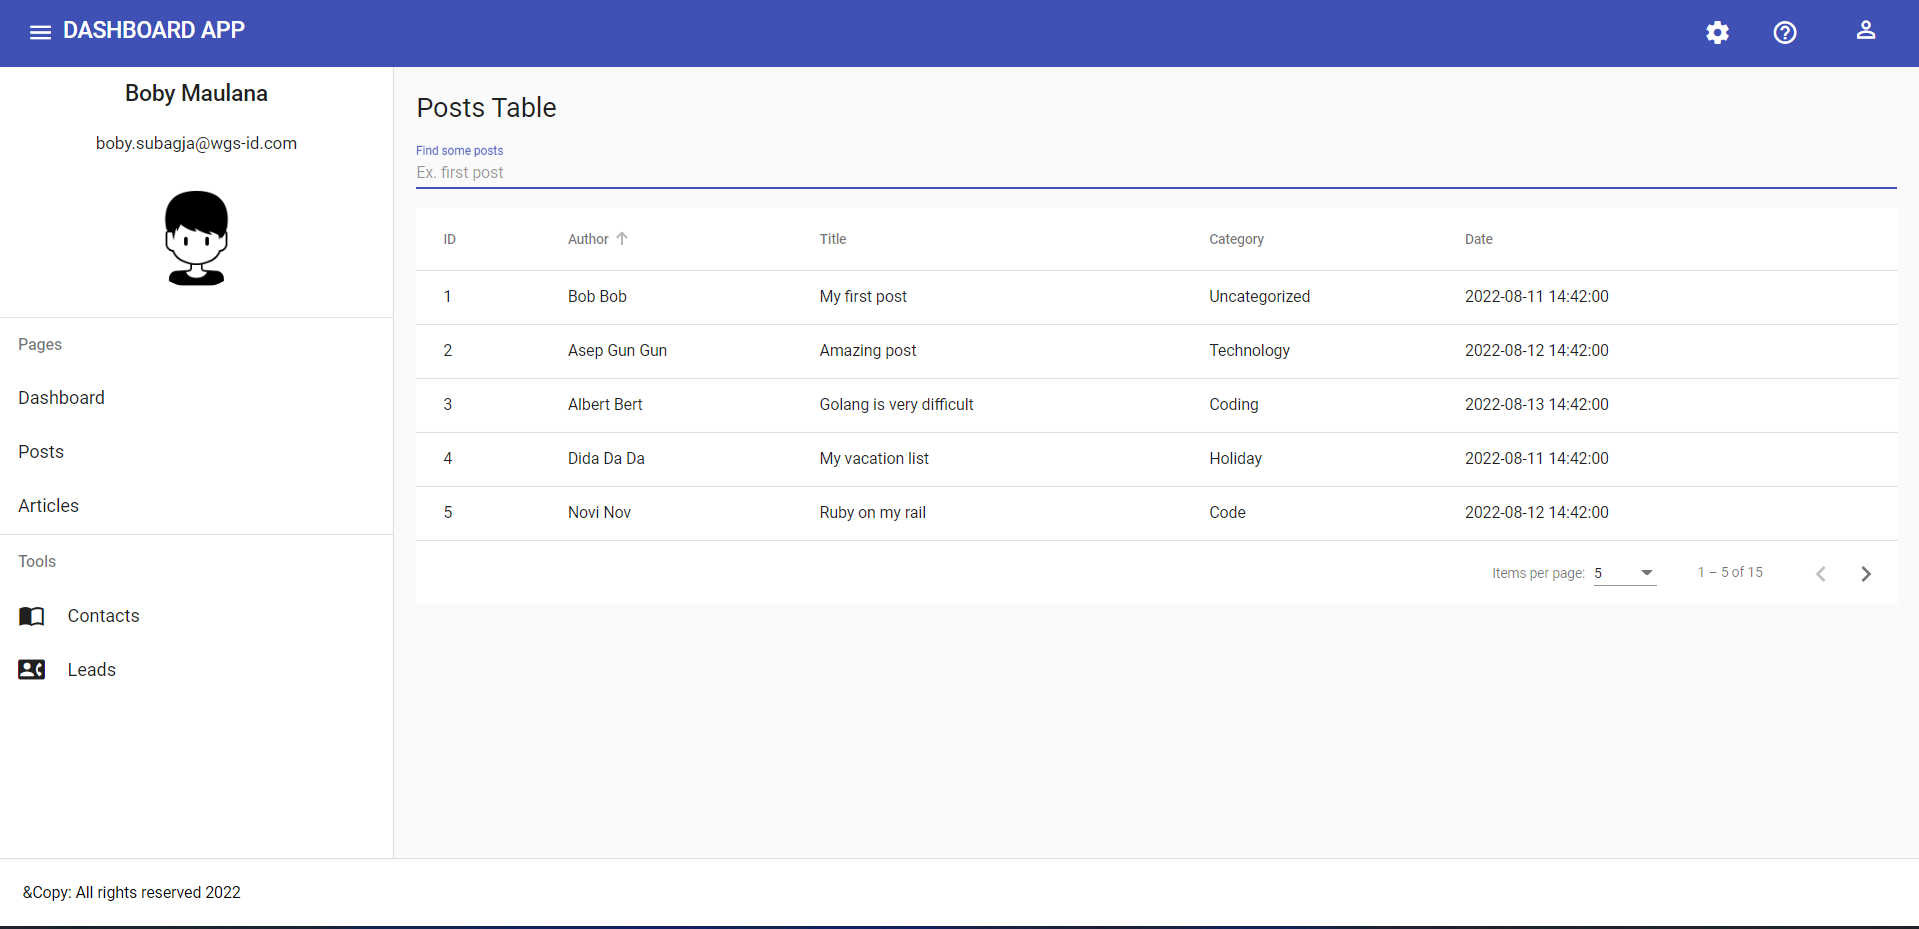
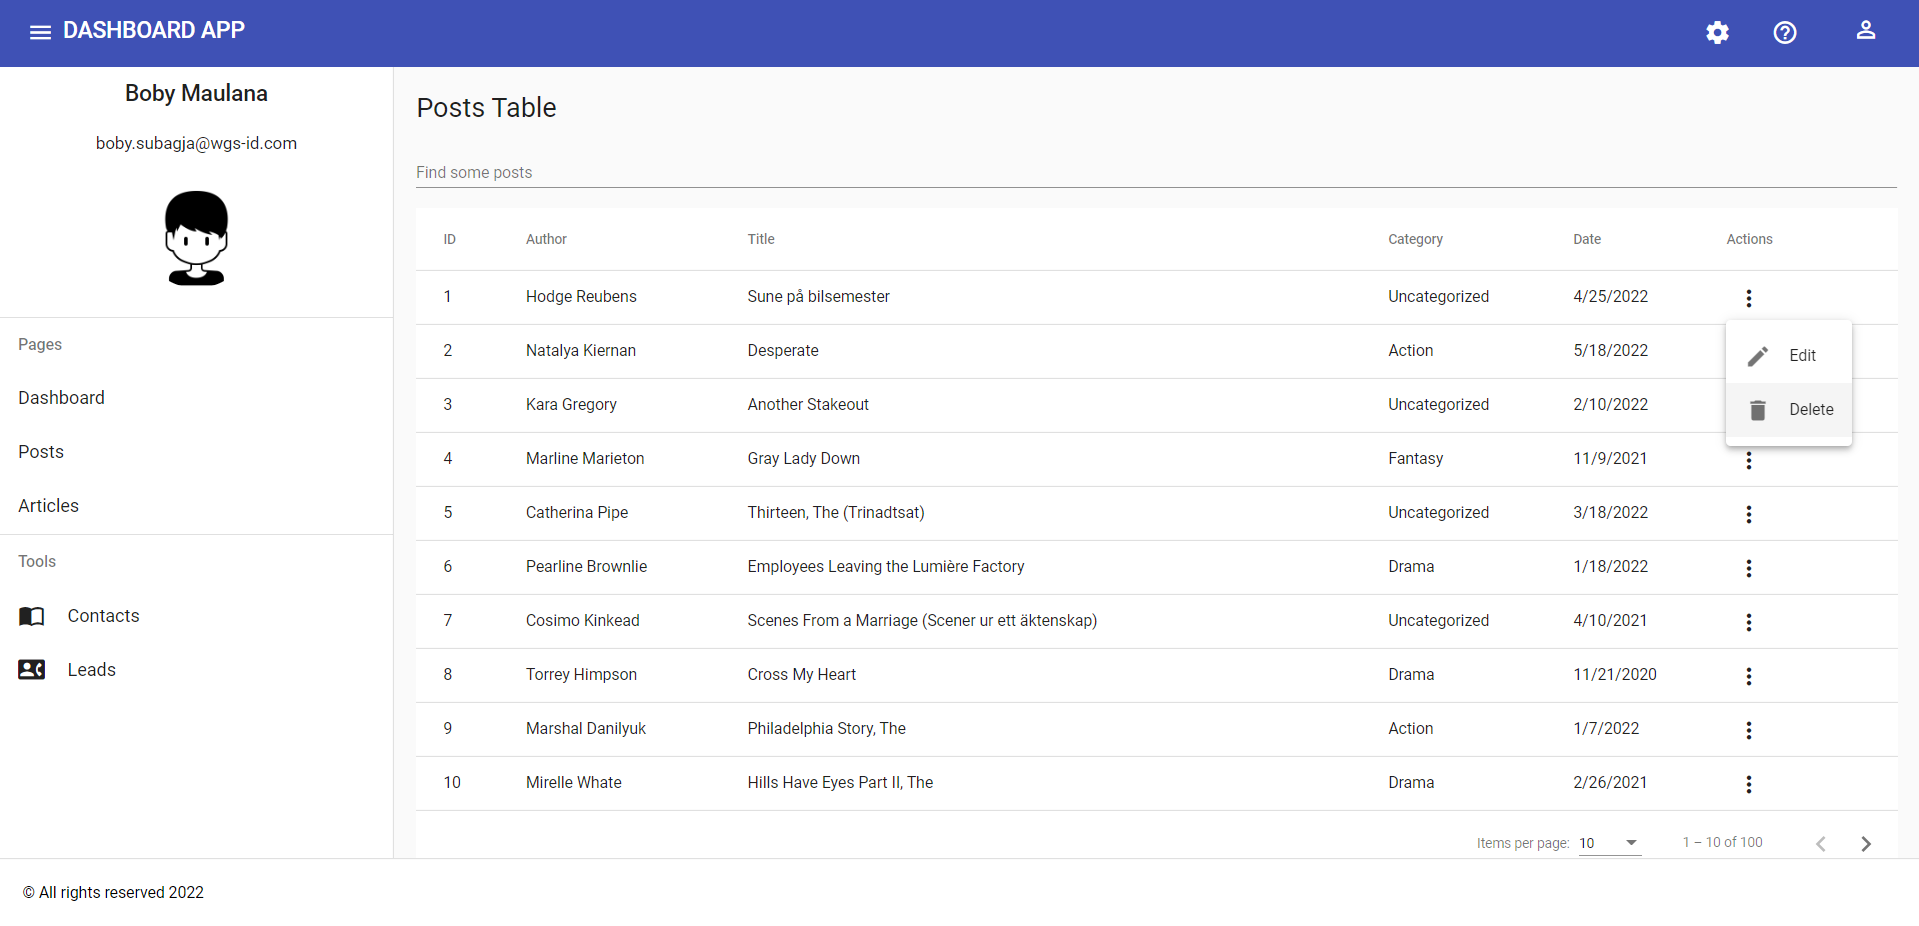
Add fake data api using random data from backend service

diff --git a/src/app/modules/posts/posts.component.ts b/src/app/modules/posts/posts.component.ts
@@ -2,6 +2,7 @@ import { Component, OnInit, ViewChild } from '@angular/core';
 import { MatPaginator } from '@angular/material/paginator';
 import { MatSort } from '@angular/material/sort';
 import { MatTableDataSource } from '@angular/material/table';
+import { PostsService } from '../posts.service';
 
 interface IPost {
   id: string;
@@ -17,131 +18,35 @@ interface IPost {
   styleUrls: ['./posts.component.css'],
 })
 export class PostsComponent implements OnInit {
+
   dataSource: MatTableDataSource<IPost>;
-  posts: IPost[];
-  column: string[] = ['id', 'author', 'title', 'category', 'date'];
+  posts: IPost[] = []
+  column: string[] = ['id', 'author', 'title', 'category', 'date', 'actions'];
 
-  @ViewChild(MatSort, { static: true })
-  sort!: MatSort
-  @ViewChild(MatPaginator, { static: true })
-  paginator!: MatPaginator;
+  @ViewChild(MatSort, { static: true }) sort: MatSort;
+  @ViewChild(MatPaginator, { static: true }) paginator: MatPaginator;
 
-  constructor() {
-    this.posts = [
-      {
-        id: '1',
-        author: 'Bob Bob',
-        title: 'My first post',
-        category: 'Uncategorized',
-        date: '2022-08-11 14:42:00',
-      },
-      {
-        id: '2',
-        author: 'Asep Gun Gun',
-        title: 'Amazing post',
-        category: 'Technology',
-        date: '2022-08-12 14:42:00',
-      },
-      {
-        id: '3',
-        author: 'Albert Bert',
-        title: 'Golang is very difficult',
-        category: 'Coding',
-        date: '2022-08-13 14:42:00',
-      },{
-        id: '4',
-        author: 'Dida Da Da',
-        title: 'My vacation list',
-        category: 'Holiday',
-        date: '2022-08-11 14:42:00',
-      },
-      {
-        id: '5',
-        author: 'Novi Nov',
-        title: 'Ruby on my rail',
-        category: 'Code',
-        date: '2022-08-12 14:42:00',
-      },
-      {
-        id: '3',
-        author: 'Bob Bob',
-        title: 'My third post',
-        category: 'Uncategorized',
-        date: '2022-08-13 14:42:00',
-      },{
-        id: '1',
-        author: 'Bob Bob',
-        title: 'My first post',
-        category: 'Uncategorized',
-        date: '2022-08-11 14:42:00',
-      },
-      {
-        id: '2',
-        author: 'Bob Bob',
-        title: 'My second post',
-        category: 'Uncategorized',
-        date: '2022-08-12 14:42:00',
-      },
-      {
-        id: '3',
-        author: 'Bob Bob',
-        title: 'My third post',
-        category: 'Uncategorized',
-        date: '2022-08-13 14:42:00',
-      },{
-        id: '1',
-        author: 'Bob Bob',
-        title: 'My first post',
-        category: 'Uncategorized',
-        date: '2022-08-11 14:42:00',
-      },
-      {
-        id: '2',
-        author: 'Bob Bob',
-        title: 'My second post',
-        category: 'Uncategorized',
-        date: '2022-08-12 14:42:00',
-      },
-      {
-        id: '3',
-        author: 'Bob Bob',
-        title: 'My third post',
-        category: 'Uncategorized',
-        date: '2022-08-13 14:42:00',
-      },{
-        id: '1',
-        author: 'Bob Bob',
-        title: 'My first post',
-        category: 'Uncategorized',
-        date: '2022-08-11 14:42:00',
-      },
-      {
-        id: '2',
-        author: 'Bob Bob',
-        title: 'My second post',
-        category: 'Uncategorized',
-        date: '2022-08-12 14:42:00',
-      },
-      {
-        id: '3',
-        author: 'Bob Bob',
-        title: 'My third post',
-        category: 'Uncategorized',
-        date: '2022-08-13 14:42:00',
-      },
-    ];
-
-    this.dataSource = new MatTableDataSource(this.posts);
-    console.log(this.dataSource);
+  constructor(private postService: PostsService) {
   }
+
   ngOnInit() {
-    this.dataSource.sort = this.sort;
-    this.dataSource.paginator = this.paginator;
+    this.postService.getPosts().then(response => {
+      this.posts = response.data;
+      
+      this.dataSource = new MatTableDataSource(this.posts);
+      console.log(this.dataSource.filteredData);
+      this.dataSource.sort = this.sort;
+      this.dataSource.paginator = this.paginator;
+    });
   }
+
+  
 
   applyFilter(event: any) {
-    const filterValue = (event.target as HTMLInputElement).value
+    const filterValue = (event.target as HTMLInputElement).value;
 
-    this.dataSource.filter = filterValue.trim().toLowerCase()
+    this.dataSource.filter = filterValue.trim().toLowerCase();
+
+    this.paginator.firstPage()
   }
 }

diff --git a/src/app/modules/posts/posts.component.html b/src/app/modules/posts/posts.component.html
@@ -1,8 +1,8 @@
 <h1>Posts Table</h1>
 
 <mat-form-field>
-    <mat-label>Find some posts</mat-label>
-    <input matInput placeholder="Ex. first post" (keyup)="applyFilter($event)">
+  <mat-label>Find some posts</mat-label>
+  <input matInput placeholder="Ex. first post" (keyup)="applyFilter($event)" />
 </mat-form-field>
 
 <div>
@@ -32,13 +32,33 @@
       <td mat-cell *matCellDef="let row">{{ row.category }}</td>
     </ng-container>
 
+    <ng-container matColumnDef="actions">
+      <th mat-header-cell *matHeaderCellDef mat-sort-header>Actions</th>
+      <td mat-cell *matCellDef="let row">
+        <button mat-icon-button [matMenuTriggerFor]="menu" aria-label="Example icon-button with a menu">
+          <mat-icon>more_vert</mat-icon>
+        </button>
+        <mat-menu #menu="matMenu">
+          <button mat-menu-item>
+            <mat-icon>edit</mat-icon>
+            <span>Edit</span>
+          </button>
+          <button mat-menu-item>
+            <mat-icon>delete</mat-icon>
+            <span>Delete</span>
+          </button>
+        </mat-menu>
+        
+      </td>
+    </ng-container>
+
     <tr mat-header-row *matHeaderRowDef="column"></tr>
     <tr mat-row *matRowDef="let row; columns: column"></tr>
   </table>
   <mat-paginator
     [length]="posts.length"
-    [pageSize]="5"
-    [pageSizeOptions]="[5, 10, 25, 100]"
+    [pageSize]="10"
+    [pageSizeOptions]="[10, 25, 100]"
     aria-label="Select page"
   >
   </mat-paginator>

diff --git a/src/app/layouts/default/default.module.ts b/src/app/layouts/default/default.module.ts
@@ -15,6 +15,10 @@ import { MatSortModule } from '@angular/material/sort';
 import { MatPaginatorModule } from '@angular/material/paginator';
 import { MatFormFieldModule } from '@angular/material/form-field';
 import { MatInputModule } from '@angular/material/input';
+import { PostsService } from 'src/app/modules/posts.service';
+import { MatIconModule } from '@angular/material/icon';
+import { MatMenuModule } from '@angular/material/menu';
+import { MatButtonModule } from '@angular/material/button';
 
 @NgModule({
   declarations: [
@@ -34,10 +38,14 @@ import { MatInputModule } from '@angular/material/input';
     MatSortModule,
     MatPaginatorModule,
     MatFormFieldModule,
-    MatInputModule
+    MatInputModule,
+    MatIconModule,
+    MatMenuModule,
+    MatButtonModule
   ],
   providers: [
-    DashboardService
+    DashboardService,
+    PostsService
   ]
 })
 export class DefaultModule { }

diff --git a/backend/routes/posts.js b/backend/routes/posts.js
@@ -3,7 +3,7 @@ var router = express.Router();
 
 /* GET users listing. */
 router.get('/', function(req, res, next) {
-  res.json([[{
+  res.json([{
     "id": 1,
     "author": "Hodge Reubens",
     "title": "Sune på bilsemester",
@@ -603,7 +603,7 @@ router.get('/', function(req, res, next) {
     "title": "Bad Luck (Zezowate szczescie)",
     "category": "Uncategorized",
     "date": "8/17/2020"
-  }]])
+  }])
 });
 
 module.exports = router;

diff --git a/src/app/modules/posts.service.spec.ts b/src/app/modules/posts.service.spec.ts
@@ -1,0 +1,16 @@
+import { TestBed } from '@angular/core/testing';
+
+import { PostsService } from './posts.service';
+
+describe('PostsService', () => {
+  let service: PostsService;
+
+  beforeEach(() => {
+    TestBed.configureTestingModule({});
+    service = TestBed.inject(PostsService);
+  });
+
+  it('should be created', () => {
+    expect(service).toBeTruthy();
+  });
+});

diff --git a/src/app/modules/posts.service.ts b/src/app/modules/posts.service.ts
@@ -1,0 +1,14 @@
+import { Injectable } from '@angular/core';
+import axios from 'axios';
+
+@Injectable({
+  providedIn: 'root'
+})
+export class PostsService {
+
+  constructor() { }
+
+  getPosts() {
+    return axios.get('http://localhost:3000/posts')
+  }
+}

diff --git a/src/app/app-routing.module.ts b/src/app/app-routing.module.ts
@@ -9,7 +9,7 @@ const routes: Routes = [{
     component: DefaultComponent,
     children: [{
         path: '',
-        component: PostsComponent
+        component: DashboardComponent
     }, {
         path: 'posts',
         component: PostsComponent

diff --git a/backend/routes/index.js b/backend/routes/index.js
@@ -3,7 +3,7 @@ var router = express.Router();
 
 /* GET home page. */
 router.get('/', function(req, res, next) {
-  res.send('index', { title: 'Express' });
+  res.send({ title: 'Express' });
 });
 
 module.exports = router;

diff --git a/src/app/shared/components/footer/footer.component.html b/src/app/shared/components/footer/footer.component.html
@@ -1,4 +1,4 @@
 <mat-divider></mat-divider>
 <footer>
-    &Copy: All rights reserved 2022
+    &copy; All rights reserved 2022
 </footer>
